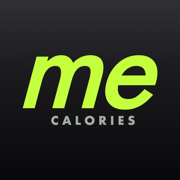
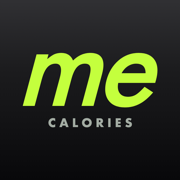
v10.34 图标：CALORIES 与 me 墨迹中心对齐，上下间距拉开

diff --git a/index.html b/index.html
@@ -7,11 +7,11 @@
 <meta name="apple-mobile-web-app-status-bar-style" content="black">
 <meta name="theme-color" content="#0a0b0c">
 <title>热量账本</title>
-<link rel="stylesheet" href="style.css?v=1017">
+<link rel="stylesheet" href="style.css?v=1018">
 <link rel="manifest" href="manifest.webmanifest">
 <!-- 换图标时必须改这里的 ?v=，否则 iOS 主屏图标会一直用缓存里的旧图 -->
-<link rel="apple-touch-icon" href="apple-touch-icon.png?v=1031">
-<link rel="icon" href="icon-192.png?v=1031">
+<link rel="apple-touch-icon" href="apple-touch-icon.png?v=1032">
+<link rel="icon" href="icon-192.png?v=1032">
 </head>
 <body>
 
@@ -457,10 +457,10 @@
   </div>
 </div>
 
-<script src="foods.js?v=1017"></script>
-<script src="icons.js?v=1017"></script>
-<script src="api.js?v=1017"></script>
-<script src="app.js?v=1017"></script>
+<script src="foods.js?v=1018"></script>
+<script src="icons.js?v=1018"></script>
+<script src="api.js?v=1018"></script>
+<script src="app.js?v=1018"></script>
 <script>
 /* 兜底：万一这次加载没完整（脚本没下来 / 执行出错），不要停在"全是破折号"的死界面。
    顺序：① 自己把没加载成功的脚本用 ?r=时间戳 再补一遍；② 还不行为一条可点重试的提示条，

diff --git a/app.js b/app.js
@@ -28,6 +28,10 @@ function nameLine(name, attr) {
 }
 
 const RELEASES = [
+  { v: 'v10.34', d: '10-28', items: [
+    '修：图标里 CALORIES 原来没跟 me 对齐 —— me 是斜切的，墨迹中心比盒子中心偏 16px，所以小字看着往右歪；现在两者墨迹中心都在 x=512.5，实测差 0.0px',
+    '改：小字和 me 之间拉开一点（原来贴着，间距 35px → 61px），整体仍居中（视觉中心 512.5 / 512，四边留白 128 / 126 / 300 / 299）',
+  ] },
   { v: 'v10.33', d: '10-28', items: [
     '改：图标里的「me + CALORIES」整体放大（字标 500 → 620，小字 46 → 66），原来只占画布三分之一，看着太小',
     '改：按实际像素把内容对齐到画布正中心 —— 之前是「盒子居中」，斜切之后墨迹其实偏左 18px、偏下 64px；现在实测偏离 0.5px / 0px，四边留白 128 / 126 / 313 / 312',
@@ -3019,7 +3023,7 @@ const RELEASES = [
 
 
 // 版本号只在这里写一次，设置页和关于页都读它
-const APP_VERSION = 'v10.33';
+const APP_VERSION = 'v10.34';
 let groupMap = new Map();
 const WEEK = ['周日', '周一', '周二', '周三', '周四', '周五', '周六'];
 

diff --git a/sw.js b/sw.js
@@ -1,5 +1,5 @@
 /* 离线缓存：让 App 在没网的时候也能打开 */
-const CACHE = 'ledger-v1017';
+const CACHE = 'ledger-v1018';
 const ASSETS = [
   './',
   './index.html',
